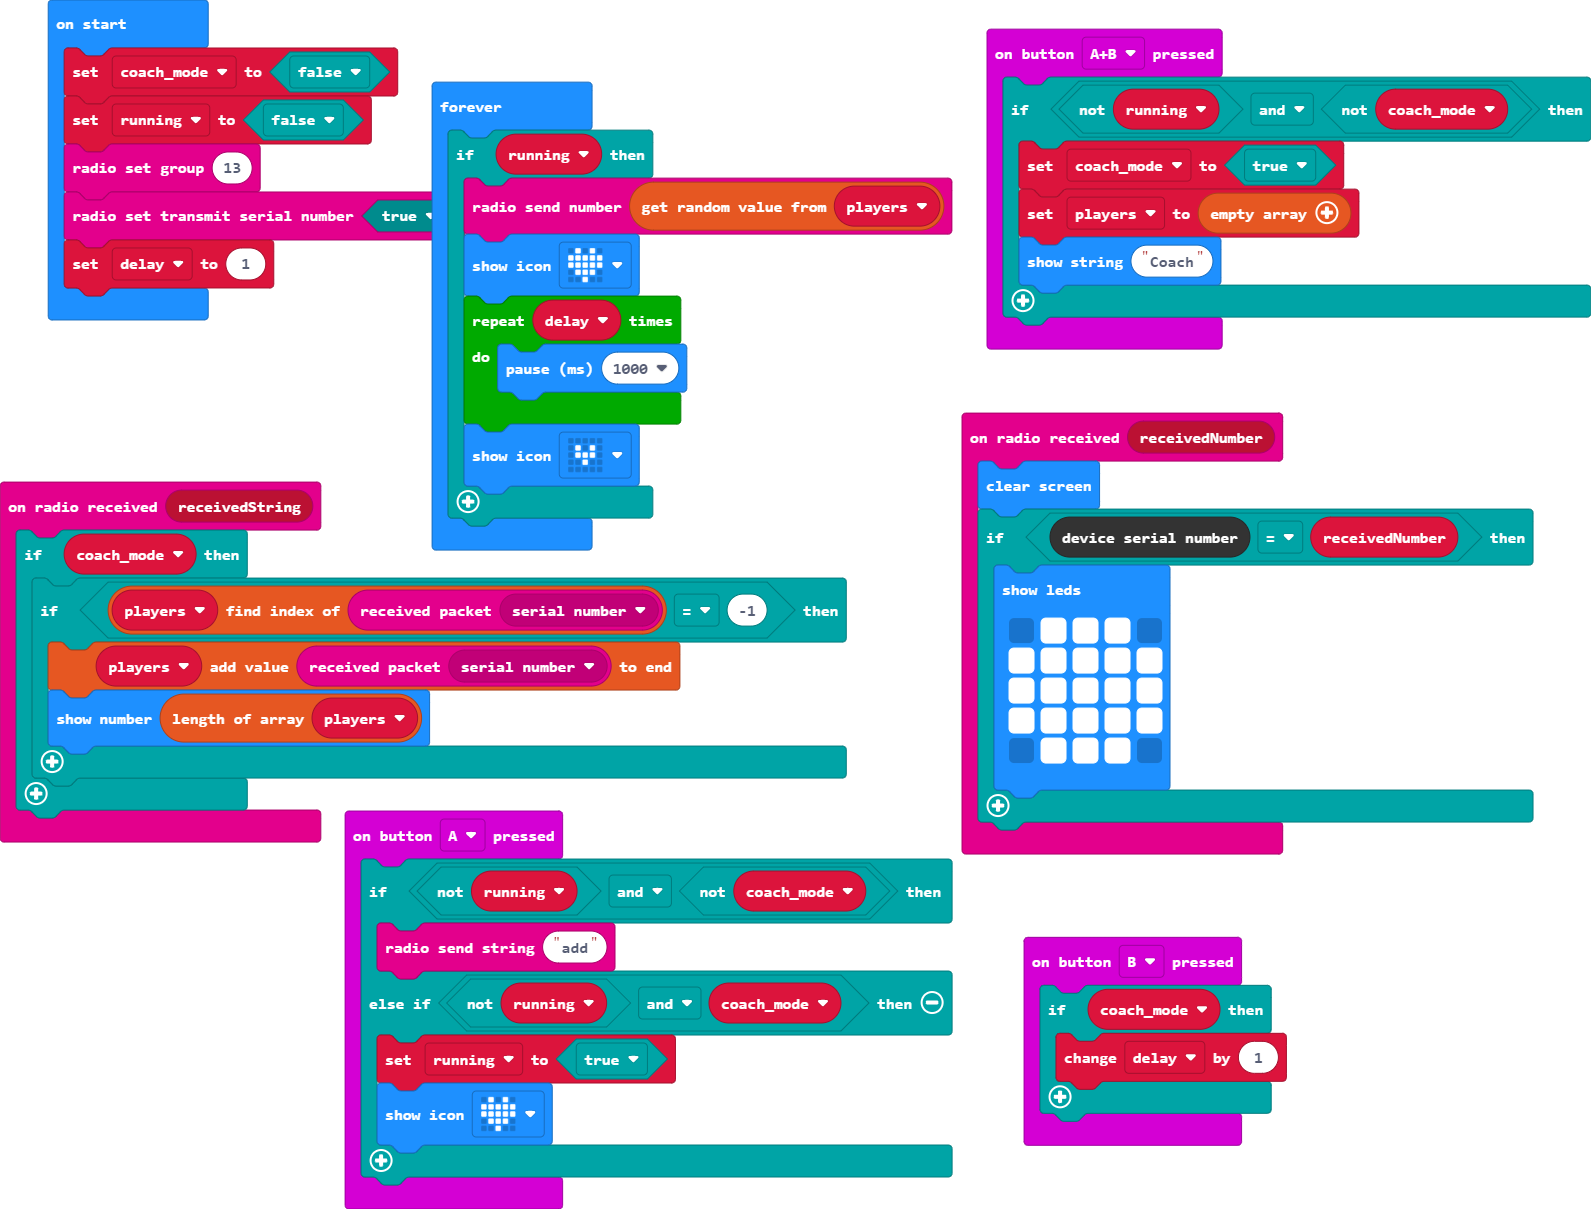
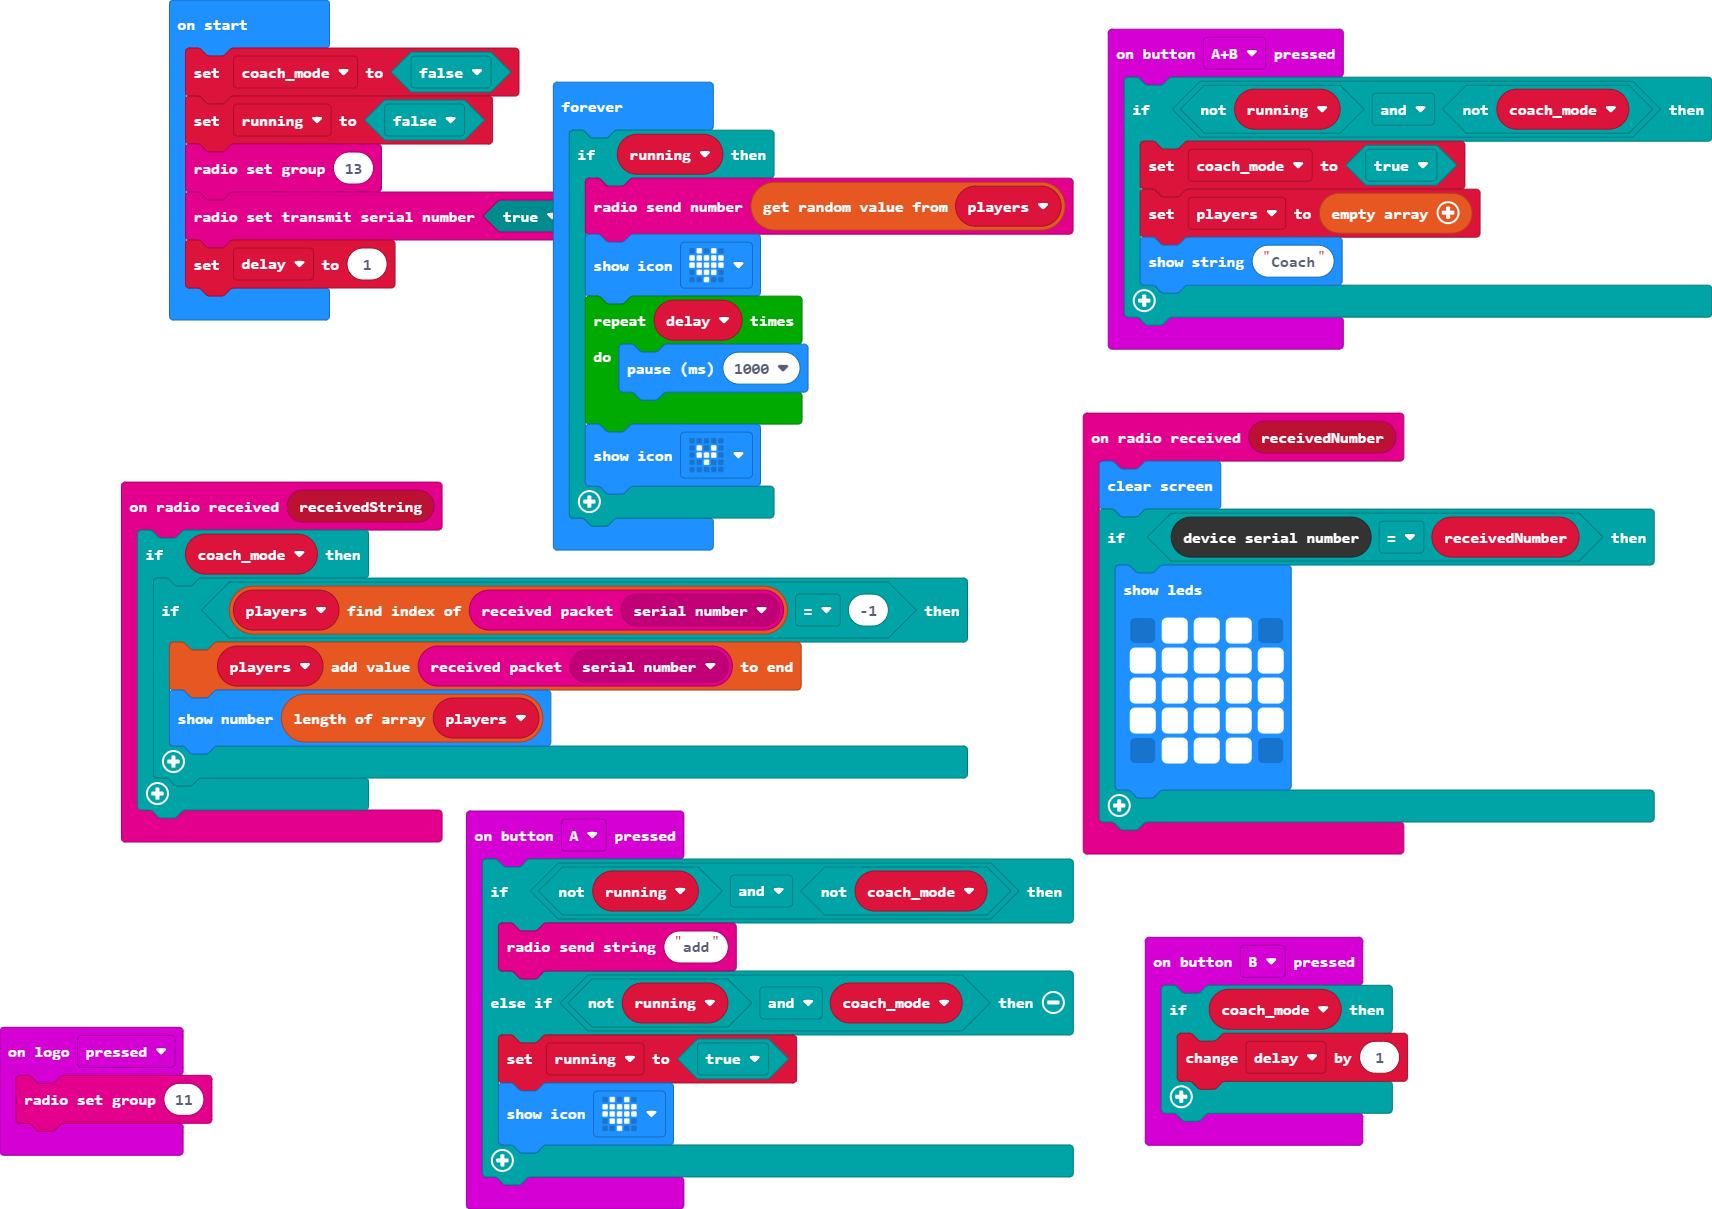
Update main.blocks, main.ts

diff --git a/main.ts b/main.ts
@@ -38,6 +38,9 @@ input.onButtonPressed(Button.B, function () {
         delay += 1
     }
 })
+input.onLogoEvent(TouchButtonEvent.Pressed, function () {
+    radio.setGroup(11)
+})
 let players: number[] = []
 let running = false
 let coach_mode = false
